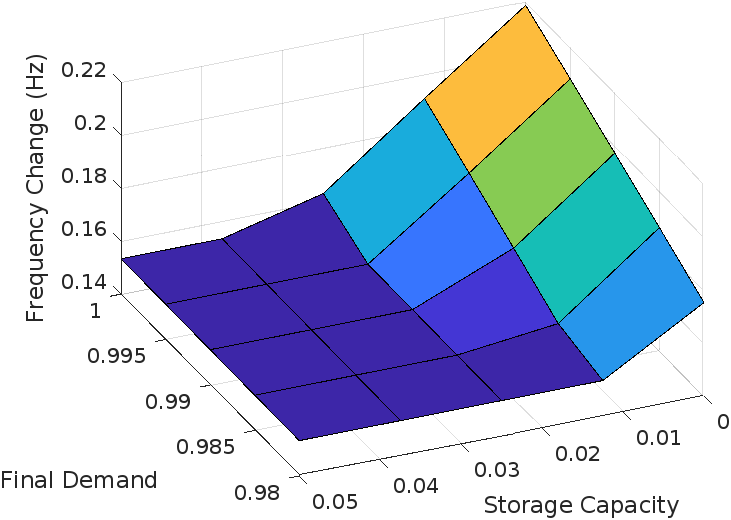
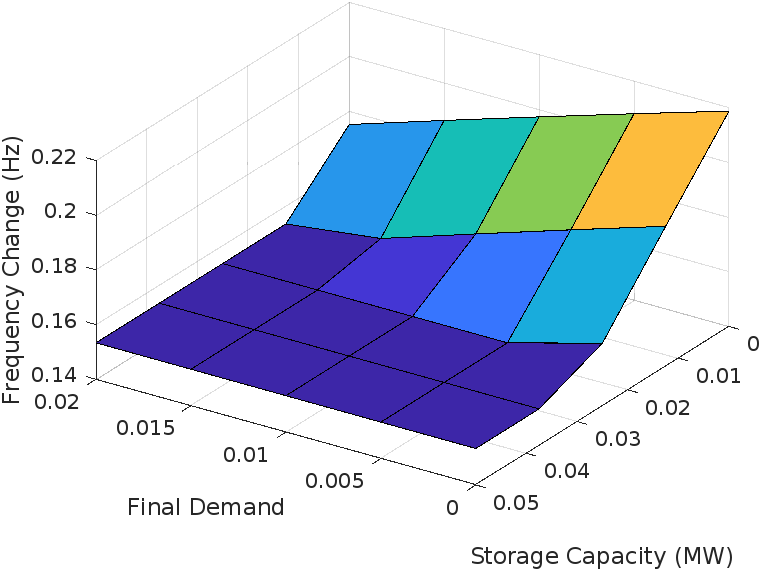
Created surface plots with normalized data

diff --git a/Data Analysis/surface_plot_maker.m b/Data Analysis/surface_plot_maker.m
@@ -1,0 +1,25 @@
+param_names = ["demand" "trans" "storage" "inertia" "solar"];
+axis_names = ["Final Demand" "Transmission Line Cap (MW)" "Storage Capacity (MW)" "Inertia Constant (s)" "Solar Capacity"];
+
+for i=1:4
+    for j=i+1:5
+        param1 = param_names(i);
+        param2 = param_names(j);
+
+        data = readmatrix("../Data/Normalized Data/" + param1 + "-" + param2 + ".csv");
+        data = data.';
+        
+        x_data = data(1,1:5:end);
+        y_data = data(2,1:5);
+        freq_data = reshape(data(3,:),[5 5]);
+        
+        surf(x_data, y_data,freq_data)
+        hold on
+        xlabel(axis_names(i))
+        ylabel(axis_names(j))
+        zlabel("Frequency Change (Hz)")
+        hold off
+        
+        exportgraphics(gca,"../Graphs/Surface Plots/" + param1 + "-" + param2 + "-graph.png")
+    end
+end
